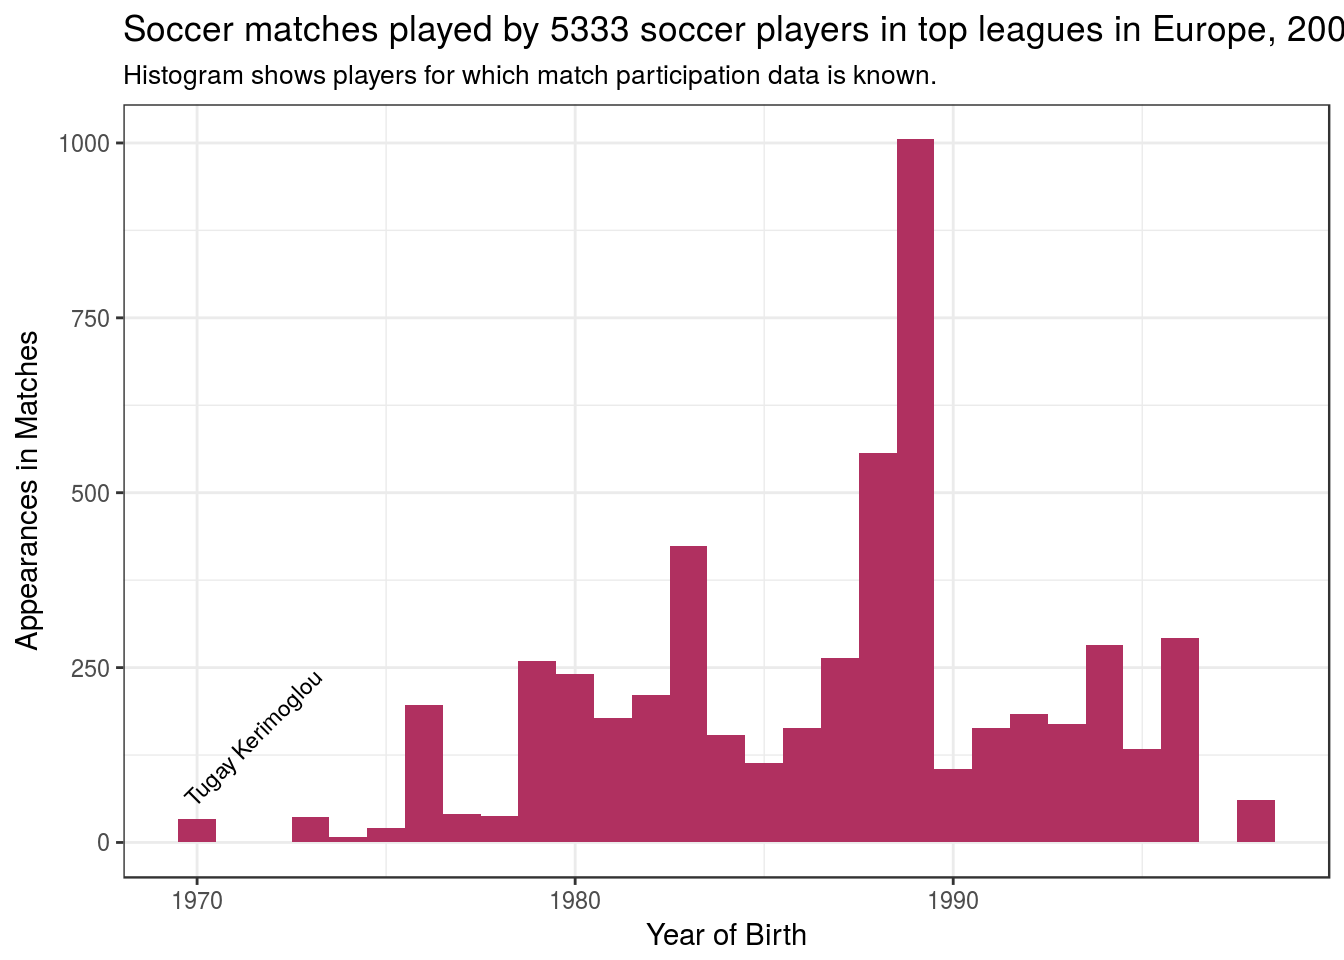
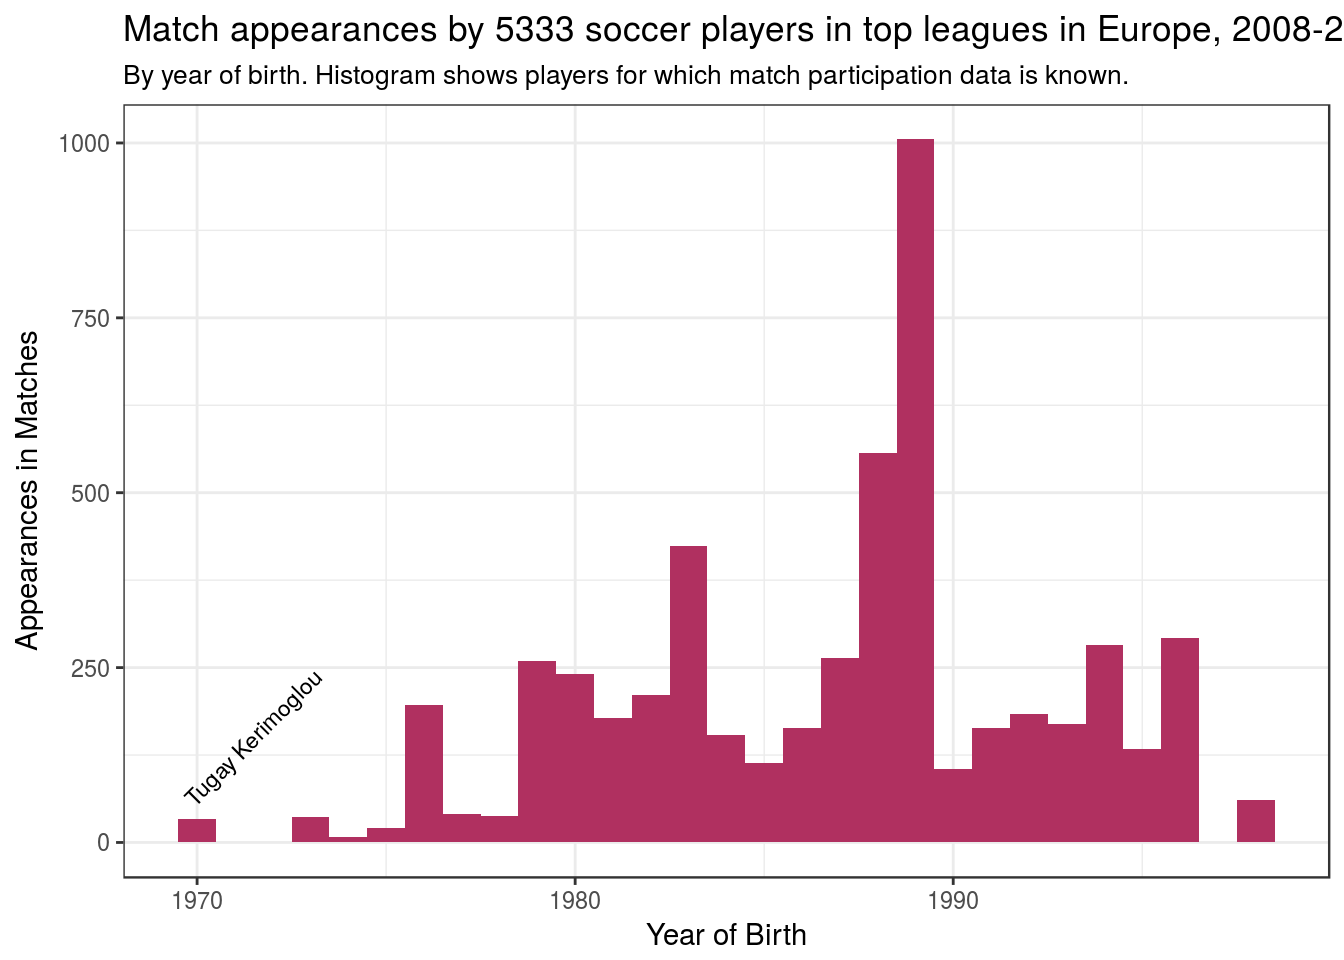
finetuning histogram

Changed region(s): [[0.0938, 0.0, 1.0, 0.0938]]

diff --git a/content/post/2017-12-03-european-soccer-players--oldest.html b/content/post/2017-12-03-european-soccer-players--oldest.html
@@ -77,8 +77,8 @@ Player_in_match %&gt;%
         geom_text(data = Pl_lbl, 
                   aes(x=I(year_of_birth+1.5), y=I(150), 
                       label = player_name, angle = 45), size=3) +
-        ggtitle(sprintf(&quot;Soccer matches played by %s soccer players in top leagues in Europe, 2008-2016&quot;, nrow(Player_in_match)),
-                subtitle=&quot;Histogram shows players for which match participation data is known.&quot;) +
+        ggtitle(sprintf(&quot;Match appearances by %s soccer players in top leagues in Europe, 2008-2016&quot;, nrow(Player_in_match)),
+                subtitle=&quot;By year of birth. Histogram shows players for which match participation data is known.&quot;) +
         xlab(&quot;Year of Birth&quot;) +
         ylab(&quot;Appearances in Matches&quot;)</code></pre>
 <p><img src="/post/2017-12-03-european-soccer-players--oldest_files/figure-html/histogram-1.png" width="672" /></p>
